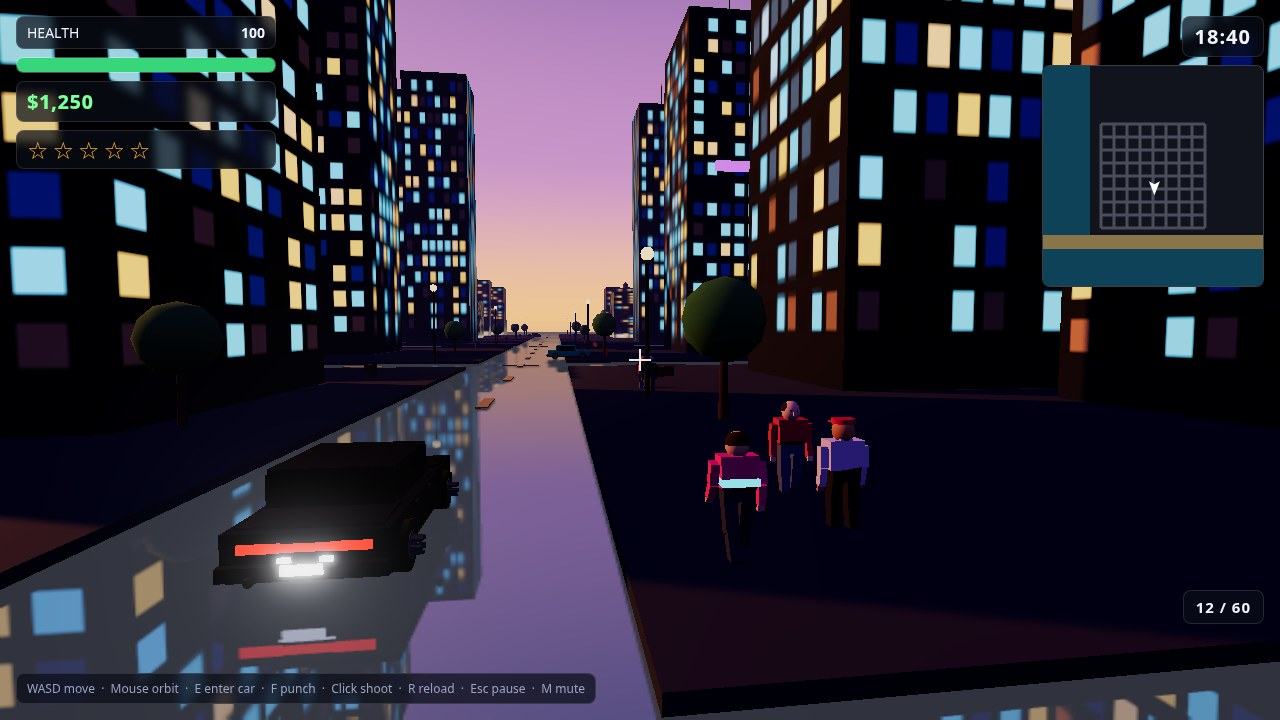
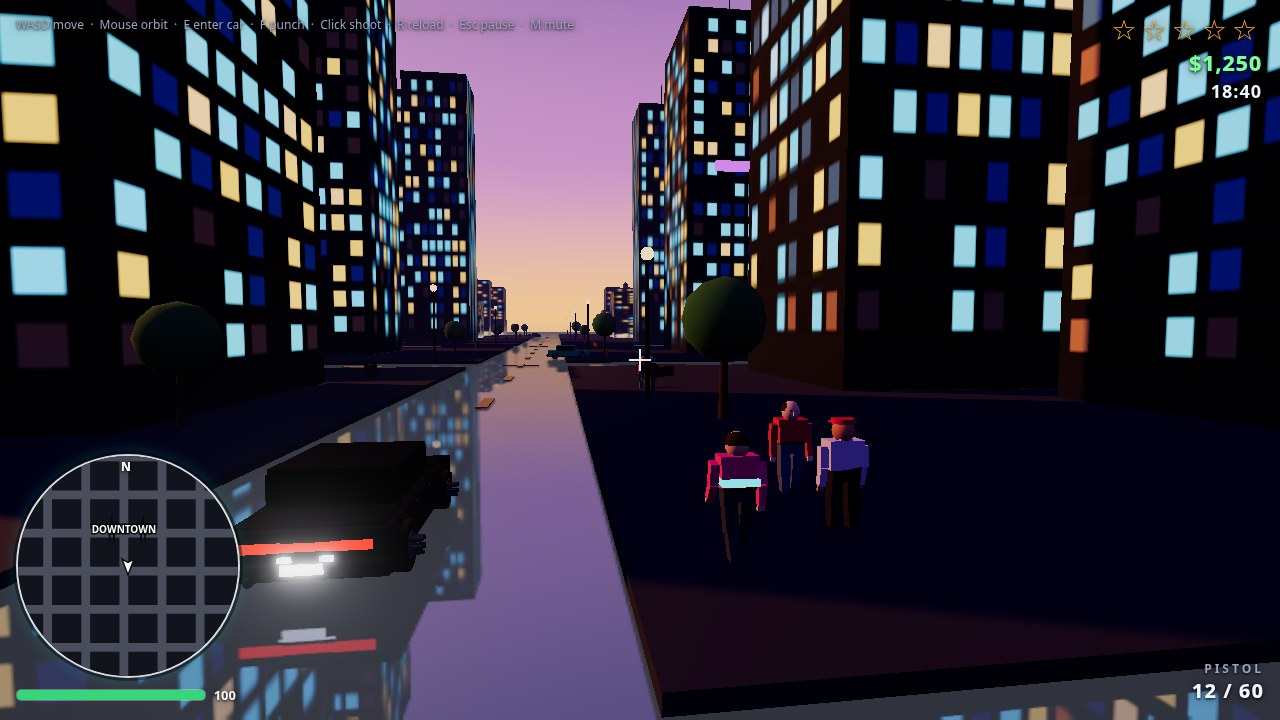
Round 5: GTA 6-style HUD + circular minimap upgrade, chase camera pole fix

diff --git a/game/index.html b/game/index.html
@@ -19,34 +19,39 @@
   #status { position: absolute; width: 1px; height: 1px; overflow: hidden; clip-path: inset(50%); white-space: nowrap; }
   .hidden { display: none !important; }
 
-  /* ---- HUD ---- */
-  #hud { position: fixed; inset: 0; pointer-events: none; z-index: 5; }
+  /* ---- HUD (GTA 6 style: bare text, circular minimap, no panels) ---- */
+  #hud { position: fixed; inset: 0; pointer-events: none; z-index: 5; text-shadow: 0 1px 3px rgba(0, 0, 0, 0.9), 0 0 10px rgba(0, 0, 0, 0.6); }
   .panel { background: var(--panel); border: 1px solid rgba(255, 255, 255, 0.12); border-radius: 8px; backdrop-filter: blur(4px); }
-  #topleft { position: absolute; top: 16px; left: 16px; display: flex; flex-direction: column; gap: 8px; width: 260px; }
-  #healthbar { height: 14px; border-radius: 7px; overflow: hidden; background: rgba(255, 255, 255, 0.14); border: 1px solid rgba(255, 255, 255, 0.2); }
-  #health-fill { height: 100%; width: 100%; background: #37d67a; transition: width 0.2s ease; }
-  #health-row { display: flex; justify-content: space-between; align-items: center; padding: 6px 10px; font-size: 14px; }
-  #health-text { font-weight: 700; }
-  #money { font-size: 20px; font-weight: 800; color: #7dff9a; letter-spacing: 0.5px; padding: 6px 10px; }
-  #stars { font-size: 24px; letter-spacing: 4px; color: var(--amber); padding: 2px 10px; }
+  #hint { position: absolute; top: 16px; left: 16px; font-size: 12px; color: var(--muted); max-width: 330px; line-height: 1.6; }
+  #topright { position: absolute; top: 14px; right: 18px; display: flex; flex-direction: column; align-items: flex-end; gap: 2px; }
+  #stars { font-size: 28px; letter-spacing: 5px; color: var(--amber); line-height: 1.1; }
   #stars.hot { color: #ff3b30; text-shadow: 0 0 12px rgba(255, 59, 48, 0.8); }
-  #topright { position: absolute; top: 16px; right: 16px; display: flex; flex-direction: column; align-items: flex-end; gap: 8px; }
-  #clock { font-size: 20px; font-weight: 700; padding: 6px 12px; letter-spacing: 1px; }
-  #minimap { width: 220px; height: 220px; border-radius: 8px; border: 1px solid rgba(255, 255, 255, 0.18); background: #12141d; }
+  #money { font-size: 22px; font-weight: 800; color: #7dff9a; letter-spacing: 0.5px; }
+  #clock { font-size: 18px; font-weight: 700; letter-spacing: 1px; }
+  #minimap-wrap { position: absolute; left: 16px; bottom: 16px; width: 220px; }
+  #minimap { width: 220px; height: 220px; border-radius: 50%; border: 2px solid rgba(255, 255, 255, 0.85); box-shadow: 0 0 0 3px rgba(0, 0, 0, 0.45), 0 0 18px rgba(34, 230, 255, 0.25); background: #12141d; display: block; }
+  #north { position: absolute; top: 4px; left: 50%; transform: translateX(-50%); font-size: 12px; font-weight: 800; color: #fff; }
+  #health-row { display: flex; align-items: center; gap: 8px; margin-top: 8px; }
+  #healthbar { flex: 1; height: 10px; border-radius: 5px; overflow: hidden; background: rgba(255, 255, 255, 0.14); border: 1px solid rgba(255, 255, 255, 0.2); }
+  #health-fill { height: 100%; width: 100%; background: #37d67a; transition: width 0.2s ease; }
+  #health-text { font-size: 13px; font-weight: 700; }
+  #armorbar { height: 8px; border-radius: 4px; overflow: hidden; background: rgba(255, 255, 255, 0.14); border: 1px solid rgba(255, 255, 255, 0.2); margin-top: 6px; }
+  #armor-fill { height: 100%; width: 100%; background: #cfe8ff; }
   #objective { position: absolute; top: 16px; left: 50%; transform: translateX(-50%); max-width: 520px; padding: 10px 18px; text-align: center; }
   #objective-title { font-size: 15px; font-weight: 800; letter-spacing: 2px; color: var(--amber); text-transform: uppercase; }
   #objective-text { font-size: 14px; color: var(--text); margin-top: 2px; }
-  #speedo { position: absolute; right: 16px; bottom: 16px; padding: 8px 16px; text-align: right; }
+  #bottomright { position: absolute; right: 16px; bottom: 16px; display: flex; flex-direction: column; align-items: flex-end; gap: 4px; }
+  #speedo { text-align: right; }
   #speed { font-size: 34px; font-weight: 800; line-height: 1; }
   #speedo small { display: block; font-size: 11px; letter-spacing: 2px; color: var(--muted); }
-  #ammo { position: absolute; right: 16px; bottom: 96px; padding: 6px 12px; font-size: 15px; font-weight: 700; letter-spacing: 1px; }
+  #weapon-name { font-size: 12px; font-weight: 700; letter-spacing: 3px; color: var(--muted); text-align: right; }
+  #ammo { font-size: 20px; font-weight: 800; letter-spacing: 1px; }
   #crosshair { position: absolute; left: 50%; top: 50%; width: 22px; height: 22px; margin: -11px 0 0 -11px; }
   #crosshair::before, #crosshair::after { content: ""; position: absolute; background: rgba(255, 255, 255, 0.9); }
   #crosshair::before { left: 10px; top: 0; width: 2px; height: 22px; }
   #crosshair::after { top: 10px; left: 0; width: 22px; height: 2px; }
   #toast { position: absolute; left: 50%; bottom: 110px; transform: translateX(-50%); padding: 10px 20px; font-size: 16px; font-weight: 600; opacity: 0; transition: opacity 0.25s ease; white-space: nowrap; }
   #toast.show { opacity: 1; }
-  #hint { position: absolute; left: 16px; bottom: 16px; font-size: 12px; color: var(--muted); padding: 6px 10px; }
 
   /* ---- Menus ---- */
   .overlay { position: fixed; inset: 0; z-index: 10; display: flex; flex-direction: column; align-items: center; justify-content: center; gap: 14px; background: linear-gradient(180deg, rgba(8, 6, 20, 0.55) 0%, rgba(20, 8, 32, 0.78) 100%); text-align: center; padding: 24px; }
@@ -65,7 +70,7 @@
   @media (max-width: 760px) {
     .logo { font-size: 52px; }
     #minimap { width: 150px; height: 150px; }
-    #topleft { width: 190px; }
+    #minimap-wrap { width: 150px; }
   }
 </style>
 </head>
@@ -74,25 +79,28 @@
 <p id="status" role="status" aria-live="polite"></p>
 
 <div id="hud" class="hidden">
-  <div id="topleft">
-    <div class="panel" id="health-row"><span>HEALTH</span><span id="health-text">100</span></div>
-    <div id="healthbar"><div id="health-fill"></div></div>
-    <div class="panel" id="money">$0</div>
-    <div class="panel" id="stars">☆☆☆☆☆</div>
-  </div>
+  <div id="hint">WASD move &nbsp;·&nbsp; Mouse orbit &nbsp;·&nbsp; E enter car &nbsp;·&nbsp; F punch &nbsp;·&nbsp; Click shoot &nbsp;·&nbsp; R reload &nbsp;·&nbsp; Esc pause &nbsp;·&nbsp; M mute</div>
   <div id="topright">
-    <div class="panel" id="clock">18:40</div>
+    <div id="stars">☆☆☆☆☆</div>
+    <div id="money">$0</div>
+    <div id="clock">18:40</div>
+  </div>
+  <div id="minimap-wrap">
     <canvas id="minimap" width="220" height="220" aria-label="Minimap"></canvas>
+    <div id="north">N</div>
+    <div id="health-row"><div id="healthbar"><div id="health-fill"></div></div><span id="health-text">100</span></div>
+    <div id="armorbar" class="hidden"><div id="armor-fill"></div></div>
   </div>
   <div class="panel hidden" id="objective">
     <div id="objective-title"></div>
     <div id="objective-text"></div>
   </div>
-  <div class="panel hidden" id="speedo"><span id="speed">0</span><small>KM/H</small></div>
-  <div class="panel" id="ammo">12 / 60</div>
+  <div id="bottomright">
+    <div class="hidden" id="speedo"><span id="speed">0</span><small>KM/H</small></div>
+    <div id="weapon"><div id="weapon-name">PISTOL</div><div id="ammo">12 / 60</div></div>
+  </div>
   <div id="crosshair" class="hidden"></div>
   <div class="panel" id="toast"></div>
-  <div class="panel" id="hint">WASD move &nbsp;·&nbsp; Mouse orbit &nbsp;·&nbsp; E enter car &nbsp;·&nbsp; F punch &nbsp;·&nbsp; Click shoot &nbsp;·&nbsp; R reload &nbsp;·&nbsp; Esc pause &nbsp;·&nbsp; M mute</div>
 </div>
 
 <div id="menu" class="overlay">

diff --git a/game/src/hud.js b/game/src/hud.js
@@ -1,17 +1,15 @@
-// The HUD: health bar, cash, wanted stars, clock, objective panel, speedometer and a
-// live 2D minimap drawn on a canvas — roads, the beach and the water, the player arrow,
-// the mission marker and every police blip. The HUD is plain DOM over the WebGL canvas
-// (fast, crisp text, no extra draw calls), and the minimap is a canvas so it can be
-// repainted every frame for almost nothing.
+// GTA 6-style HUD: bare-text stars/cash/clock top-right, circular player-centred
+// minimap bottom-left with health/armor bars, weapon + ammo bottom-right.
+import { PALETTE, ROAD_LINES, CITY, DISTRICTS } from './config.js';
 
-import { PALETTE, ROAD_LINES, CITY } from './config.js';
-
-const MINIMAP_SIZE = 220;
+const SIZE = 220, R = 150, HALF = SIZE / 2;
 
 export function createHud() {
   const root = document.getElementById('hud');
   const healthFill = document.getElementById('health-fill');
   const healthText = document.getElementById('health-text');
+  const armorBar = document.getElementById('armorbar');
+  const armorFill = document.getElementById('armor-fill');
   const moneyText = document.getElementById('money');
   const starsBox = document.getElementById('stars');
   const clockText = document.getElementById('clock');
@@ -20,6 +18,7 @@ export function createHud() {
   const objectiveText = document.getElementById('objective-text');
   const speedBox = document.getElementById('speedo');
   const speedText = document.getElementById('speed');
+  const weaponName = document.getElementById('weapon-name');
   const ammoText = document.getElementById('ammo');
   const toastBox = document.getElementById('toast');
   const crosshair = document.getElementById('crosshair');
@@ -27,6 +26,8 @@ export function createHud() {
   const mapCtx = mapCanvas.getContext('2d');
 
   let toastTimer = 0;
+  let cx = null, cz = null;
+  weaponName.textContent = 'PISTOL'; // the only weapon in the game
 
   function showToast(message, seconds = 3) {
     toastBox.textContent = message;
@@ -36,68 +37,80 @@ export function createHud() {
 
   function drawMinimap(state) {
     const ctx = mapCtx;
-    const size = MINIMAP_SIZE;
-    const scale = size / (CITY.groundSize + 120);
-    const toMap = (v) => size / 2 + v * scale;
-    ctx.clearRect(0, 0, size, size);
-    // The city block.
+    if (cx === null) { cx = state.px; cz = state.pz; }
+    cx += (state.px - cx) * 0.2; // smooth follow, no snapping
+    cz += (state.pz - cz) * 0.2;
+    const scale = HALF / R;
+    const mx = (v) => HALF + (v - cx) * scale;
+    const my = (v) => HALF + (v - cz) * scale;
+    const x0 = cx - R, x1 = cx + R, z0 = cz - R, z1 = cz + R;
+    ctx.clearRect(0, 0, SIZE, SIZE);
+    ctx.save();
+    ctx.beginPath();
+    ctx.arc(HALF, HALF, HALF, 0, Math.PI * 2);
+    ctx.clip();
     ctx.fillStyle = '#12141d';
-    ctx.fillRect(0, 0, size, size);
-    // Water west and south.
+    ctx.fillRect(0, 0, SIZE, SIZE);
+    // Water west, sand strip + water south.
     ctx.fillStyle = '#0d4258';
-    ctx.fillRect(0, 0, toMap(CITY.waterWest), size);
-    ctx.fillStyle = '#0d4258';
-    ctx.fillRect(0, toMap(CITY.beachSouth + 56), size, size - toMap(CITY.beachSouth + 56));
-    // Sand strip.
+    ctx.fillRect(0, 0, mx(CITY.waterWest), SIZE);
     ctx.fillStyle = '#8a744a';
-    ctx.fillRect(0, toMap(CITY.beachSouth), size, toMap(CITY.beachSouth + 56) - toMap(CITY.beachSouth));
-    // Roads.
+    ctx.fillRect(0, my(CITY.beachSouth), SIZE, 56 * scale);
+    ctx.fillStyle = '#0d4258';
+    ctx.fillRect(0, my(CITY.beachSouth + 56), SIZE, SIZE);
+    // Roads, clipped to the view.
     ctx.strokeStyle = '#4a4e5c';
     ctx.lineWidth = Math.max(2, CITY.roadWidth * scale);
     for (const line of ROAD_LINES) {
-      ctx.beginPath();
-      ctx.moveTo(toMap(line), toMap(-208));
-      ctx.lineTo(toMap(line), toMap(208));
-      ctx.stroke();
-      ctx.beginPath();
-      ctx.moveTo(toMap(-208), toMap(line));
-      ctx.lineTo(toMap(208), toMap(line));
-      ctx.stroke();
+      if (line >= x0 && line <= x1) {
+        ctx.beginPath(); ctx.moveTo(mx(line), my(z0)); ctx.lineTo(mx(line), my(z1)); ctx.stroke();
+      }
+      if (line >= z0 && line <= z1) {
+        ctx.beginPath(); ctx.moveTo(mx(x0), my(line)); ctx.lineTo(mx(x1), my(line)); ctx.stroke();
+      }
     }
-    // The mission marker.
+    // District labels, small caps with a dark outline.
+    ctx.font = 'bold 10px system-ui, sans-serif';
+    ctx.textAlign = 'center';
+    for (const d of DISTRICTS) {
+      const dx = d.centre[0], dz = d.centre[1];
+      if (dx < x0 || dx > x1 || dz < z0 || dz > z1) continue;
+      ctx.lineWidth = 3;
+      ctx.strokeStyle = 'rgba(0,0,0,0.85)';
+      ctx.strokeText(d.name.toUpperCase(), mx(dx), my(dz));
+      ctx.fillStyle = '#fff';
+      ctx.fillText(d.name.toUpperCase(), mx(dx), my(dz));
+    }
+    // Mission marker: yellow diamond with a pulsing ring.
     if (state.marker) {
-      const mx = toMap(state.marker.x);
-      const my = toMap(state.marker.z);
-      const pulse = 6 + Math.sin(state.time * 4) * 2;
+      const px = mx(state.marker.x), py = my(state.marker.z);
+      const pulse = 9 + Math.sin(state.time * 4) * 3;
+      ctx.strokeStyle = '#ffd23e';
+      ctx.lineWidth = 2;
+      ctx.beginPath(); ctx.arc(px, py, pulse, 0, Math.PI * 2); ctx.stroke();
       ctx.fillStyle = '#ffd23e';
       ctx.beginPath();
-      ctx.arc(mx, my, pulse, 0, Math.PI * 2);
-      ctx.fill();
-      ctx.strokeStyle = '#12141d';
-      ctx.lineWidth = 2;
-      ctx.stroke();
+      ctx.moveTo(px, py - 7); ctx.lineTo(px + 7, py); ctx.lineTo(px, py + 7); ctx.lineTo(px - 7, py);
+      ctx.closePath(); ctx.fill();
+      ctx.strokeStyle = '#12141d'; ctx.lineWidth = 1.5; ctx.stroke();
     }
-    // Police blips.
-    ctx.fillStyle = '#3b82ff';
+    // Police blips: blue circles with a white outline.
     for (const unit of state.police) {
       ctx.beginPath();
-      ctx.arc(toMap(unit.x), toMap(unit.z), 4, 0, Math.PI * 2);
-      ctx.fill();
+      ctx.arc(mx(unit.x), my(unit.z), 4, 0, Math.PI * 2);
+      ctx.fillStyle = '#3b82ff'; ctx.fill();
+      ctx.strokeStyle = '#fff'; ctx.lineWidth = 1.5; ctx.stroke();
     }
-    // The player arrow, pointing along the heading.
-    const px = toMap(state.px);
-    const py = toMap(state.pz);
+    // Player arrow, white with a dark outline, along the heading.
     ctx.save();
-    ctx.translate(px, py);
+    ctx.translate(mx(state.px), my(state.pz));
     ctx.rotate(state.heading);
-    ctx.fillStyle = '#ffffff';
     ctx.beginPath();
-    ctx.moveTo(0, -8);
-    ctx.lineTo(5.5, 6);
-    ctx.lineTo(0, 3);
-    ctx.lineTo(-5.5, 6);
+    ctx.moveTo(0, -9); ctx.lineTo(6, 7); ctx.lineTo(0, 3.5); ctx.lineTo(-6, 7);
     ctx.closePath();
-    ctx.fill();
+    ctx.fillStyle = '#fff'; ctx.fill();
+    ctx.strokeStyle = '#111'; ctx.lineWidth = 1.5; ctx.stroke();
+    ctx.restore();
     ctx.restore();
   }
 
@@ -109,6 +122,10 @@ export function createHud() {
       healthFill.style.width = `${health}%`;
       healthFill.style.background = health > 50 ? '#37d67a' : health > 25 ? '#ffb02e' : '#ff3b30';
       healthText.textContent = `${health}`;
+      if (state.armor) {
+        armorBar.classList.remove('hidden');
+        armorFill.style.width = `${Math.max(0, Math.round(state.armor))}%`;
+      } else armorBar.classList.add('hidden');
       moneyText.textContent = `$${state.money.toLocaleString('en-US')}`;
       let stars = '';
       for (let i = 0; i < 5; i += 1) stars += i < state.wanted ? '★' : '☆';

diff --git a/game/src/shots.js b/game/src/shots.js
@@ -169,9 +169,11 @@ export function stageShot(name, game, world, renderer) {
     }
     // Side-on: the player car sweeps past with the police on its tail behind it.
     // The camera looks north-west, away from the low sun, so the glare stays out
-    // of frame and the police light bars read against the dusk sky.
+    // of frame and the police light bars read against the dusk sky. Camera z is
+    // 8 south of the car, not 2: a street-light pole stands at x=+7.2, z≈car.z-0.9,
+    // dead on the old sightline — the shift puts it ~28° off-axis, clear of the car.
     renderer.setFixed({
-      position: new THREE.Vector3(car.x + 16, 5, car.z - 2),
+      position: new THREE.Vector3(car.x + 16, 5, car.z - 8),
       look: new THREE.Vector3(car.x - 2, 1.8, car.z - 6),
     });
     beacon.update(null, game.time);
